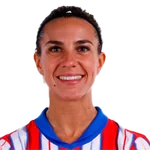
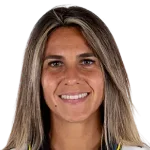
feat - upload images from panel

diff --git a/futfem/admin.py b/futfem/admin.py
@@ -1,6 +1,10 @@
+import os
 from django.contrib import admin
 from django.utils.html import format_html
+from django import forms
+from django.conf import settings
 from django.contrib.admin.models import LogEntry
+from django.core.files.storage import default_storage
 from .models import (
     JugadoraPosicion, Pais, Jugadora, Trayectoria, Equipo, 
     Liga, JugadoraPais, EquipoTrofeo, Trofeo, Juego,
@@ -8,6 +12,39 @@ from .models import (
 
 from minijuegos.models import Pista 
 
+# ==========================================
+# 📋 FORMULARIOS PERSONALIZADOS (CAMPOS VIRTUALES)
+# ==========================================
+
+class JugadoraAdminForm(forms.ModelForm):
+    subir_nueva_foto = forms.ImageField(
+        required=False,
+        label="📁 Subir archivo físico",
+        help_text="Selecciona una foto para subirla directamente a la ruta indicada en el campo 'Imagen'."
+    )
+    class Meta:
+        model = Jugadora
+        fields = '__all__'
+
+class EquipoAdminForm(forms.ModelForm):
+    subir_nuevo_escudo = forms.ImageField(
+        required=False,
+        label="📁 Subir escudo físico",
+        help_text="Selecciona una imagen para subirla directamente a la ruta indicada en el campo 'Escudo'."
+    )
+    class Meta:
+        model = Equipo
+        fields = '__all__'
+
+class LigaAdminForm(forms.ModelForm):
+    subir_nuevo_logo = forms.ImageField(
+        required=False,
+        label="📁 Subir logo físico",
+        help_text="Selecciona una imagen para subirla directamente a la ruta indicada en el campo 'Logo'."
+    )
+    class Meta:
+        model = Liga
+        fields = '__all__'
 # ==========================================
 # 1. CONTROL DE LOGS Y HISTORIAL (Oculto para colaboradores)
 # ==========================================
@@ -124,11 +161,12 @@ class PaisAdmin(admin.ModelAdmin):
 
 @admin.register(Jugadora)
 class JugadoraAdmin(admin.ModelAdmin):
-    # Una lista súper limpia con foto de perfil grande, banderas y valores de mercado
+    # Enlazamos nuestro formulario personalizado
+    form = JugadoraAdminForm
+
     list_display = ('ver_foto', 'Nombre', 'Apellidos', 'Apodo', 'ver_nacionalidades', 'market_value_format')
     list_display_links = ('ver_foto', 'Nombre', 'Apellidos')
     
-    # Filtros laterales claros con nombres descriptivos indirectos gracias a Django
     list_filter = (
         'retiro',
         'jugadorapais__pais', 
@@ -138,15 +176,15 @@ class JugadoraAdmin(admin.ModelAdmin):
     search_fields = ('Nombre', 'Apellidos', 'Apodo')
     readonly_fields = ('foto_perfil_bloque',)
     
-    # Agrupar campos para que parezca un perfil deportivo real
+    # Añadimos el nuevo campo 'subir_nueva_foto' dentro de los fields
     fieldsets = (
         ('👤 Ficha de Identidad y Perfil' , {
             'fields': (
                 ('Nombre', 'Apellidos', 'Apodo'),
                 ('Nacimiento', 'altura', 'pie_habil'),
-                ('imagen', 'retiro'),
+                ('imagen', 'subir_nueva_foto'), # <-- Quedan emparejados: texto a la izquierda, subida a la derecha
+                'retiro',
             ),
-            #'description': 'Información básica, datos físicos y estado de actividad de la jugadora.'
             'classes': ('bloque-campos-perfil',),
         }),
         ('💰 Mercado y Enlaces Externos', {
@@ -156,6 +194,34 @@ class JugadoraAdmin(admin.ModelAdmin):
     )
     inlines = [NacionalidadInline, PosicionInline, TrayectoriaInline]
 
+    # --- EL MOTOR: Procesamos la subida física usando la ruta del cuadro de texto ---
+    def save_model(self, request, obj, form, change):
+        # 1. Comprobamos si se seleccionó un archivo en el campo virtual
+        archivo_subido = form.cleaned_data.get('subir_nueva_foto')
+        
+        if archivo_subido:
+            # Si el usuario modificó o escribió una ruta en el campo 'imagen' (ej: media/ES/jugadoras/cardona.webp)
+            ruta_destino_texto = form.cleaned_data.get('imagen')
+            
+            if not ruta_destino_texto:
+                # Si dejó el campo de texto vacío, autogeneramos uno por defecto para que no falle
+                ruta_destino_texto = f"media/ES/jugadoras/{archivo_subido.name}"
+                obj.imagen = ruta_destino_texto
+
+            # Construimos la ruta absoluta en el disco del servidor (futfem/media/ES/jugadoras/cardona.webp)
+            ruta_absoluta = os.path.join(settings.BASE_DIR, 'futfem', ruta_destino_texto.lstrip('/'))
+            
+            # Creamos las carpetas físicas si no existen
+            os.makedirs(os.path.dirname(ruta_absoluta), exist_ok=True)
+            
+            # Guardamos el archivo binario exactamente en la ruta indicada por texto
+            with open(ruta_absoluta, 'wb+') as destination:
+                for chunk in archivo_subido.chunks():
+                    destination.write(chunk)
+                    
+        super().save_model(request, obj, form, change)
+
+    # --- VISTAS Y PREVISUALIZACIONES ---
     def foto_perfil_bloque(self, obj):
         if obj and obj.imagen:
             path = obj.imagen if obj.imagen.startswith('http') else f"/{obj.imagen}"
@@ -208,9 +274,9 @@ class JugadoraAdmin(admin.ModelAdmin):
     class Media:
         css = {'all': ('https://cdn.jsdelivr.net/gh/lipis/flag-icons@7.2.3/css/flag-icons.min.css', '/static/futfem/css/custom_admin.css', '/static/futfem/css/admin_jugadora.css')}
 
-
 @admin.register(Equipo)
 class EquipoAdmin(admin.ModelAdmin):
+    form = EquipoAdminForm
     list_display = ('ver_escudo', 'nombre', 'ver_logo_liga', 'ver_color')
     list_filter = ('liga',)
     ordering = ('nombre',)
@@ -220,13 +286,32 @@ class EquipoAdmin(admin.ModelAdmin):
     
     fieldsets = (
         ('🛡️ Datos del Club', {
-            'fields': (('nombre', 'liga'), ('escudo', 'equipo_sucesor'))
+            'fields': (('nombre', 'liga'), ('escudo', 'subir_nuevo_escudo'), 'equipo_sucesor')
         }),
         ('🎨 Identidad Visual y Mapa', {
             'fields': ('color', ('latitud', 'longitud')),
             'description': 'El color se aplicará dinámicamente como fondo de su cromo en la web.'
         }),
     )
+
+    def save_model(self, request, obj, form, change):
+        archivo_subido = form.cleaned_data.get('subir_nuevo_escudo')
+        if archivo_subido:
+            ruta_destino_texto = form.cleaned_data.get('escudo')
+            if not ruta_destino_texto:
+                # Si el campo de texto está vacío, autogeneramos una ruta razonable basándose en la Liga o por defecto
+                iso_liga = obj.liga.pais.iso.upper() if (obj.liga and obj.liga.pais) else 'ES'
+                ruta_destino_texto = f"media/{iso_liga}/clubes/{archivo_subido.name}"
+                obj.escudo = ruta_destino_texto
+
+            ruta_absoluta = os.path.join(settings.BASE_DIR, 'futfem', ruta_destino_texto.lstrip('/'))
+            os.makedirs(os.path.dirname(ruta_absoluta), exist_ok=True)
+            
+            with open(ruta_absoluta, 'wb+') as destination:
+                for chunk in archivo_subido.chunks():
+                    destination.write(chunk)
+                    
+        super().save_model(request, obj, form, change)
 
     def ver_escudo(self, obj):
         if obj.escudo:
@@ -260,18 +345,41 @@ class EquipoAdmin(admin.ModelAdmin):
     class Media:
         css = {'all': ('https://cdn.jsdelivr.net/gh/lipis/flag-icons@7.2.3/css/flag-icons.min.css', '/static/futfem/css/custom_admin.css', '/static/futfem/css/admin_equipo.css')}
 
-
-
 @admin.register(Liga)
 class LigaAdmin(admin.ModelAdmin):
+    form = LigaAdminForm
     list_display = ('ver_logo', 'nombre', 'ver_pais')
     search_fields = ('nombre',)
     list_filter = ('pais',)
 
+    fieldsets = (
+        ('🏆 Configuración de la Competición', {
+            'fields': ('nombre', 'pais', ('logo', 'subir_nuevo_logo'))
+        }),
+    )
+
+    def save_model(self, request, obj, form, change):
+        archivo_subido = form.cleaned_data.get('subir_nuevo_logo')
+        if archivo_subido:
+            ruta_destino_texto = form.cleaned_data.get('logo')
+            if not ruta_destino_texto:
+                iso_pais = obj.pais.iso.upper() if obj.pais else 'GLOBAL'
+                ruta_destino_texto = f"media/{iso_pais}/ligas/{archivo_subido.name}"
+                obj.logo = ruta_destino_texto
+
+            ruta_absoluta = os.path.join(settings.BASE_DIR, 'futfem', ruta_destino_texto.lstrip('/'))
+            os.makedirs(os.path.dirname(ruta_absoluta), exist_ok=True)
+            
+            with open(ruta_absoluta, 'wb+') as destination:
+                for chunk in archivo_subido.chunks():
+                    destination.write(chunk)
+                    
+        super().save_model(request, obj, form, change)
+
     def ver_logo(self, obj):
         if obj.logo:
             return format_html('<img src="/{}" width="45" height="45" style="object-fit: contain;" />', obj.logo)
-        return "League Logo"
+        return "❌ Sin Logo"
     ver_logo.short_description = 'Logo'
 
     def ver_pais(self, obj):